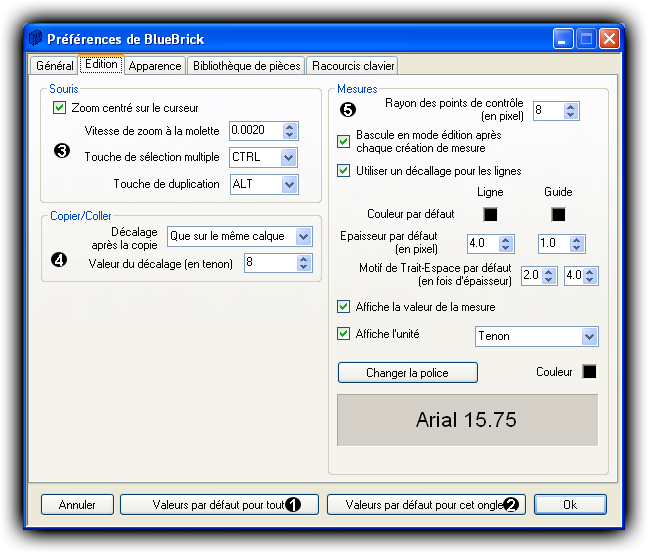
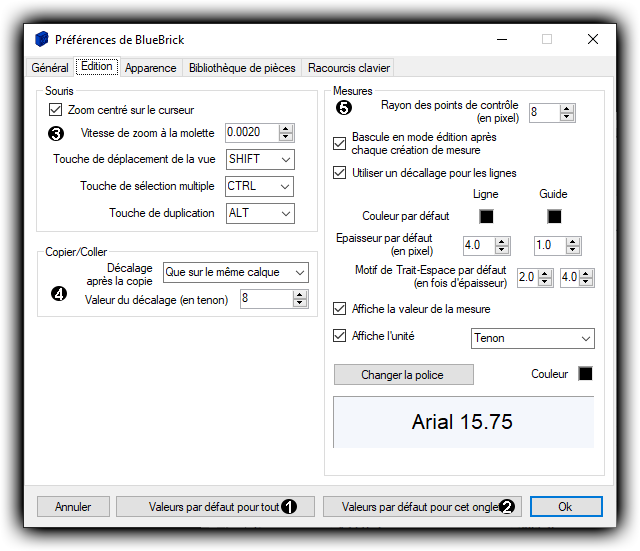
| update the PNG for the Preference Edition tab | update the Preference Edition doc page to reflect the new config option + add the doc for button 1 and 2 in both the General and Edition Preference doc page

Changed region(s): [[0.0312, 0.0309, 0.9688, 0.9564]]

diff --git a/Help/es/Preferences_Edition.htm b/Help/es/Preferences_Edition.htm
@@ -1,7 +1,6 @@
 <HTML>
 <HEAD>
-<!-- Inserted by TRADOS: --><META HTTP-EQUIV="content-type" CONTENT="text/html; charset=windows-1252">
-
+<meta http-equiv="content-type" content="text/html; charset=utf-8">
 <META NAME="keywords" CONTENT="BlueBrick, Help">
 <META NAME="description" CONTENT="The reference documentation for BlueBrick.">
 <META NAME="author" CONTENT="Alex McKenna">
@@ -12,7 +11,9 @@
 <H1>Preferencias edition</H1>
 <CENTER><IMG SRC="Preferences_Edition.png"></CENTER>
 
-<P>Hay varias <B>configuraciones de rat&oacute;n</B> <span class="RefNumber">3</span>. La opci&oacute;n de centrado de zoom est&aacute; seleccionada por defecto y permite hacer zoom all&iacute; donde se encuentra el puntero del rat&oacute;n. Desactivar esta opci&oacute;n har&aacute; que el zoom sea relativo al centro de la pantalla. La velocidad de zoom se puede cambiar ajustando la sensibilidad de la rueda. Cuanto mayor el n&uacute;mero, m&aacute;s r&aacute;pido el zoom. Moreover you can choose which modifier key (among CTRL, ALT and SHIFT) should be used to select several parts and duplicate them in combination with the left mouse button.</p>
+<p>El botón <span class="RefNumber">1</span> le permite restaurar todas las preferencias a sus valores por defecto, como cuando instaló BlueBrick por primera vez. El botón <span class="RefNumber">2</span> le permite restaurar sólo las preferencias mostradas en la categoría visible actual.</p>
+
+<P>Hay varias <B>configuraciones de rat&oacute;n</B> <span class="RefNumber">3</span>. La opci&oacute;n de centrado de zoom est&aacute; seleccionada por defecto y permite hacer zoom all&iacute; donde se encuentra el puntero del rat&oacute;n. Desactivar esta opci&oacute;n har&aacute; que el zoom sea relativo al centro de la pantalla. La velocidad de zoom se puede cambiar ajustando la sensibilidad de la rueda. Cuanto mayor el n&uacute;mero, m&aacute;s r&aacute;pido el zoom. Moreover you can choose which modifier key (among CTRL, ALT and SHIFT) should be used to pan the view, select several parts or duplicate them in combination with the left mouse button.</p>
 
 <p>When you <b>Copy/Paste</b> <span class="RefNumber">4</span> some parts on your map, you can decide to add an offset in order to distinguish the copied parts from the original ones (otherwise they will be pasted at the exact same position). However when you want to move some parts from a layer to another one, usually, you don't want them to be off-setted. So the combobox let you choose when the offset should be added: either never if you don't like the offset feature at all, always, or only if you paste on the same layer.</p>
 

diff --git a/Help/fr/Preferences_Edition.htm b/Help/fr/Preferences_Edition.htm
@@ -12,7 +12,9 @@
 <h1>Préférences d'édition</h1>
 <center><img src="Preferences_Edition.png"></center>
 
-<p>Il y a plusieurs paramètres pour la <b>Souris</b> <span class="RefNumber">3</span>. La fonctionnalité de centrage du zoom est sélectionnée par défaut et vous permet de focaliser sur la région pointée par le curseur de la souris. Désactiver cette option et le zoom ce fera au centre de l'écran. La vitesse du zoom peut être changée en ajustant la sensibilité de la molette. Plus le chiffre est élevé, plus rapidement s'effectuera le zoom. De plus vous pouvez choisir la touche modificatrice (parmi CTRL, ALT et SHIFT) qui doit être utilisée pour sélectionner plusieurs pièces et les dupliquer en combinaison avec le bouton gauche de la souris.</p>
+<p>Le bouton <span class="RefNumber">1</span> vous permet de restaurer toutes les préférences aux valeurs par défaut, comme lorsque vous avez installé BlueBrick pour la première fois. Le bouton <span class="RefNumber">2</span> vous permet de ne restaurer que les préférences affichées sur la catégorie visible actuellement.</p>
+
+<p>Il y a plusieurs paramètres pour la <b>Souris</b> <span class="RefNumber">3</span>. La fonctionnalité de centrage du zoom est sélectionnée par défaut et vous permet de focaliser sur la région pointée par le curseur de la souris. Désactiver cette option et le zoom ce fera au centre de l'écran. La vitesse du zoom peut être changée en ajustant la sensibilité de la molette. Plus le chiffre est élevé, plus rapidement s'effectuera le zoom. De plus vous pouvez choisir la touche modificatrice (parmi CTRL, ALT et SHIFT) qui doit être utilisée pour déplacer la vue, sélectionner plusieurs pièces ou les dupliquer en combinaison avec le bouton gauche de la souris.</p>
 
 <p>Quand vous <b>Copiez/collez</b> <span class="RefNumber">4</span> quelques pièces sur votre plan, vous pouvez décider d'ajouter un décalage afin de distinguer les pièces copiées des originales (autrement elles seront collées exactement à la même position). Cependant quand vous voulez déplacer quelques pièces d'un calque à l'autre, normallement, vous ne voulez pas qu'elles soient décallées. Donc la boite d'option vous permet de choisir quand le décalage doit être ajouté : soit jamais si vous n'aimez pas du tout cette fonctionnalité de décalage, toujours, ou seulement si vous collez sur le même calque.</p>
 

diff --git a/Help/de/Preferences_Edition.htm b/Help/de/Preferences_Edition.htm
@@ -10,7 +10,9 @@
 <H1>Edition Preferences</H1>
 <CENTER><IMG SRC="Preferences_Edition.png"></CENTER>
 
-<P>Es gibt viele <B>Maus</B> Einstellungen <span class="RefNumber">3</span>. Die Funktion "Zoom auf Zeiger zentriert" ist als Standard voreingestellt und ermöglicht das Hereinzoomen im Bereich des Mauszeigers. Nach Deaktivierung dieser Schaltfläche wird im Bereich des Fenstermittelpunktes gezoomt. Die Zoom-Geschwindigkeit kann durch die Einstellung des "Mausrad Vergrößerungstempos" geändert werden. Je größer die Zahl, desto schneller der Zoom. Moreover you can choose which modifier key (among CTRL, ALT and SHIFT) should be used to select several parts and duplicate them in combination with the left mouse button.</p>
+<p>Mit der Schaltfläche <span class="RefNumber">1</span> können Sie alle Einstellungen auf ihre Standardwerte zurücksetzen, wie bei der Erstinstallation von BlueBrick. Mit der Schaltfläche <span class="RefNumber">2</span> können Sie nur die Einstellungen wiederherstellen, die in der aktuell sichtbaren Kategorie angezeigt werden.</p>
+
+<P>Es gibt viele <B>Maus</B> Einstellungen <span class="RefNumber">3</span>. Die Funktion "Zoom auf Zeiger zentriert" ist als Standard voreingestellt und ermöglicht das Hereinzoomen im Bereich des Mauszeigers. Nach Deaktivierung dieser Schaltfläche wird im Bereich des Fenstermittelpunktes gezoomt. Die Zoom-Geschwindigkeit kann durch die Einstellung des "Mausrad Vergrößerungstempos" geändert werden. Je größer die Zahl, desto schneller der Zoom. Moreover you can choose which modifier key (among CTRL, ALT and SHIFT) should be used to pan the view, select several parts or duplicate them in combination with the left mouse button.</p>
 
 <p>When you <b>Copy/Paste</b> <span class="RefNumber">4</span> some parts on your map, you can decide to add an offset in order to distinguish the copied parts from the original ones (otherwise they will be pasted at the exact same position). However when you want to move some parts from a layer to another one, usually, you don't want them to be off-setted. So the combobox let you choose when the offset should be added: either never if you don't like the offset feature at all, always, or only if you paste on the same layer.</p>
 

diff --git a/Help/nl/Preferences_Edition.htm b/Help/nl/Preferences_Edition.htm
@@ -10,7 +10,9 @@
 <H1>Edition Preferences</H1>
 <CENTER><IMG SRC="Preferences_Edition.png"></CENTER>
 
-<P>Er zijn verschillende <B>Muis Configuraties</B> <span class="RefNumber">3</span>. De zoom Centreren functie is als standaard ingestelt en stelt je in staat te zoomen naar het gebied waarop je muis cursor is geplaatst.  De-activeren van deze functie zal in- en uitzoomen instellen vanuit het midden van het scherm.  De zoom snelheid kan worden gewijzigd door een aanpassing van de wiel gevoeligheid.  Hoe hoger het getal, hoe sneller de zoom. Moreover you can choose which modifier key (among CTRL, ALT and SHIFT) should be used to select several parts and duplicate them in combination with the left mouse button.</p>
+<p>Met de knop <span class="RefNumber">1</span> kun je alle voorkeuren terugzetten naar hun standaardwaarden, zoals toen je BlueBrick voor de eerste keer installeerde. Met de knop <span class="RefNumber">2</span> kun je alleen de voorkeuren herstellen die in de huidige zichtbare categorie worden weergegeven.</p>
+
+<P>Er zijn verschillende <B>Muis Configuraties</B> <span class="RefNumber">3</span>. De zoom Centreren functie is als standaard ingestelt en stelt je in staat te zoomen naar het gebied waarop je muis cursor is geplaatst.  De-activeren van deze functie zal in- en uitzoomen instellen vanuit het midden van het scherm.  De zoom snelheid kan worden gewijzigd door een aanpassing van de wiel gevoeligheid.  Hoe hoger het getal, hoe sneller de zoom. Moreover you can choose which modifier key (among CTRL, ALT and SHIFT) should be used to pan the view, select several parts or duplicate them in combination with the left mouse button.</p>
 
 <p>When you <b>Copy/Paste</b> <span class="RefNumber">4</span> some parts on your map, you can decide to add an offset in order to distinguish the copied parts from the original ones (otherwise they will be pasted at the exact same position). However when you want to move some parts from a layer to another one, usually, you don't want them to be off-setted. So the combobox let you choose when the offset should be added: either never if you don't like the offset feature at all, always, or only if you paste on the same layer.</p>
 

diff --git a/Help/en/Preferences_Edition.htm b/Help/en/Preferences_Edition.htm
@@ -10,7 +10,9 @@
 <h1>Edition Preferences</h1>
 <center><img src="Preferences_Edition.png"></center>
 
-<p>There are several <b>Mouse Configurations</b> <span class="RefNumber">3</span>. The zoom centering feature is selected as default and enables you to zoom into the area to which your mouse cursor is pointing. De-activating the feature will zoom in and out of the center of the screen. The zoom speed can be changed by adjusting the wheel sensitivity. The higher the number, the faster the zoom. Moreover you can choose which modifier key (among CTRL, ALT and SHIFT) should be used to select several parts and duplicate them in combination with the left mouse button.</p>
+<p>The button <span class="RefNumber">1</span> let you restore all the preferences to their default values, as when you installed BlueBrick for the first time. The button <span class="RefNumber">2</span> let you restore only the preferences displayed on the current visible category.</p>
+
+<p>There are several <b>Mouse Configurations</b> <span class="RefNumber">3</span>. The zoom centering feature is selected as default and enables you to zoom into the area to which your mouse cursor is pointing. De-activating the feature will zoom in and out of the center of the screen. The zoom speed can be changed by adjusting the wheel sensitivity. The higher the number, the faster the zoom. Moreover you can choose which modifier key (among CTRL, ALT and SHIFT) should be used to pan the view, select several parts or duplicate them in combination with the left mouse button.</p>
 
 <p>When you <b>Copy/Paste</b> <span class="RefNumber">4</span> some parts on your map, you can decide to add an offset in order to distinguish the copied parts from the original ones (otherwise they will be pasted at the exact same position). However when you want to move some parts from a layer to another one, usually, you don't want them to be off-setted. So the combobox let you choose when the offset should be added: either never if you don't like the offset feature at all, always, or only if you paste on the same layer.</p>
 

diff --git a/Help/fr/Preferences_General.htm b/Help/fr/Preferences_General.htm
@@ -12,6 +12,8 @@
 <h1>Préférences Générales</h1>
 <center><img src="Preferences_General.png"></center>
 
+<p>Le bouton <span class="RefNumber">1</span> vous permet de restaurer toutes les préférences aux valeurs par défaut, comme lorsque vous avez installé BlueBrick pour la première fois. Le bouton <span class="RefNumber">2</span> vous permet de ne restaurer que les préférences affichées sur la catégorie visible actuellement.</p>
+
 <p>La <b>Langue du logiciel</b> <span class="RefNumber">3</span> peut être changée dans le coin supérieur gauche. Le changement sera effectif pour presque tout les textes du logiciel. Vous devez cependant redémarrer BlueBrick afin que votre choix prenne effet. Les items qui ne sont pas affectés sont les onglets au dessus du panneau de pièces et les fenêtres qui dépendent de la langue de votre système d'exploitation (par exemple la palette de sélection des couleurs).</p>
 
 <p>Les <b>Notifications</b> <span class="RefNumber">4</span> listent quelques messages d'avertissement qui peuvent apparaître pendant l'exécution de BlueBrick. Comme ces messages d'avertissement peuvent être répétitifs, vous pouvez les désactiver en cochant une case "oublier". Par défaut, toutes les notifications d'avertissement sont activées. Vous pouvez rétablir les messages de notification que vous avez choisi d'ignorer, ou désactiver quelques notifications à l'avance.</P>

diff --git a/Help/de/Preferences_General.htm b/Help/de/Preferences_General.htm
@@ -10,6 +10,8 @@
 <h1>Allgemeine Einstellungen</h1>
 <center><img src="Preferences_General.png"></center>
 
+<p>Mit der Schaltfläche <span class="RefNumber">1</span> können Sie alle Einstellungen auf ihre Standardwerte zurücksetzen, wie bei der Erstinstallation von BlueBrick. Mit der Schaltfläche <span class="RefNumber">2</span> können Sie nur die Einstellungen wiederherstellen, die in der aktuell sichtbaren Kategorie angezeigt werden.</p>
+
 <p>Die <B>Sprache</B> <span class="RefNumber">3</span> kann oben links geändert werden. Diese Änderung betrifft nahezu das gesamte Programm. Nach der Änderung muss BlueBrick neu gestartet werden, damit BlueBrick in der gewählten Sprache erscheint. Unverändert bleiben lediglich die Namen der Karteireiter der Teileliste im Fenster oben rechts. Auch Fenster, die zur im Betriebssystem eingestellten Sprache verknüpft sind, wie z.B. die Farbtabelle, bleiben unverändert.</p>
 
 <p>The <b>Notifications</b> <span class="RefNumber">4</span> list some warning messages that can popup during the execution of BlueBrick. Since those warning messages can be repetitive, you can disable them by checking a "forget" checkbox. By default all the warning notifications are enabled. You can re-enable the notification messages you have chosen to ignore, or disable some notifications upfront.</p>

diff --git a/Help/es/Preferences_General.htm b/Help/es/Preferences_General.htm
@@ -11,6 +11,8 @@
 <H1>Preferencias generales</H1>
 <center><img src="Preferences_General.png"></center>
 
+<p>El botón <span class="RefNumber">1</span> le permite restaurar todas las preferencias a sus valores por defecto, como cuando instaló BlueBrick por primera vez. El botón <span class="RefNumber">2</span> le permite restaurar sólo las preferencias mostradas en la categoría visible actual.</p>
+
 <p>El <B>idioma del programa</B> <span class="RefNumber">3</span> se puede cambiar arriba a la izquierda. El cambio afectar&aacute; casi todo el texto del programa. Deber&aacute;s reiniciar BlueBrick para que los cambios tengan efecto.  Los elementos que no e ver&aacute;n afectados por el cambio son las pesta&ntilde;as encima del &aacute;rea de piezas y ventanas que est&aacute;n relacionadas directamente con el idioma de tu sistema operativo (por ejemplo la paleta de selecci&oacute;n colores).</p>
 
 <p>The <b>Notifications</b> <span class="RefNumber">4</span> list some warning messages that can popup during the execution of BlueBrick. Since those warning messages can be repetitive, you can disable them by checking a "forget" checkbox. By default all the warning notifications are enabled. You can re-enable the notification messages you have chosen to ignore, or disable some notifications upfront.</P>

diff --git a/Help/en/Preferences_General.htm b/Help/en/Preferences_General.htm
@@ -10,6 +10,8 @@
 <h1>General Preferences</H1>
 <center><img src="Preferences_General.png"></center>
 
+<p>The button <span class="RefNumber">1</span> let you restore all the preferences to their default values, as when you installed BlueBrick for the first time. The button <span class="RefNumber">2</span> let you restore only the preferences displayed on the current visible category.</p>
+
 <p>The <b>Program Language</b> <span class="RefNumber">3</span> can be changed at the top left. The change will affect almost all the text occurrences in the program. You must restart BlueBrick for the changes to take effect. Items which are not affected by the change are the tabs over the parts pane, and windows which are linked directly to the language of your OS (eg. color selection palette).</p>
 
 <p>The <b>Notifications</b> <span class="RefNumber">4</span> list some warning messages that can popup during the execution of BlueBrick. Since those warning messages can be repetitive, you can disable them by checking a "forget" checkbox. By default all the warning notifications are enabled. You can re-enable the notification messages you have chosen to ignore, or disable some notifications upfront.</P>

diff --git a/Help/es/Preferences_BlueBrick.htm b/Help/es/Preferences_BlueBrick.htm
@@ -12,7 +12,7 @@
 
 <center><img src="Preferences_General.png"></center>
 
-<p>The button <span class="RefNumber">1</span> let you restore all the preferences to their default values, as when you installed BlueBrick for the first time. The button <span class="RefNumber">2</span> let you restore only the preferences displayed on the current visible category.</p>
+<p>El botón <span class="RefNumber">1</span> le permite restaurar todas las preferencias a sus valores por defecto, como cuando instaló BlueBrick por primera vez. El botón <span class="RefNumber">2</span> le permite restaurar sólo las preferencias mostradas en la categoría visible actual.</p>
 
 <p>Some spare options are also available through different ways, you can learn more about it in the <a href="Preferences_Other_Options.htm">Other Options</a> section.</p>
 </body>
